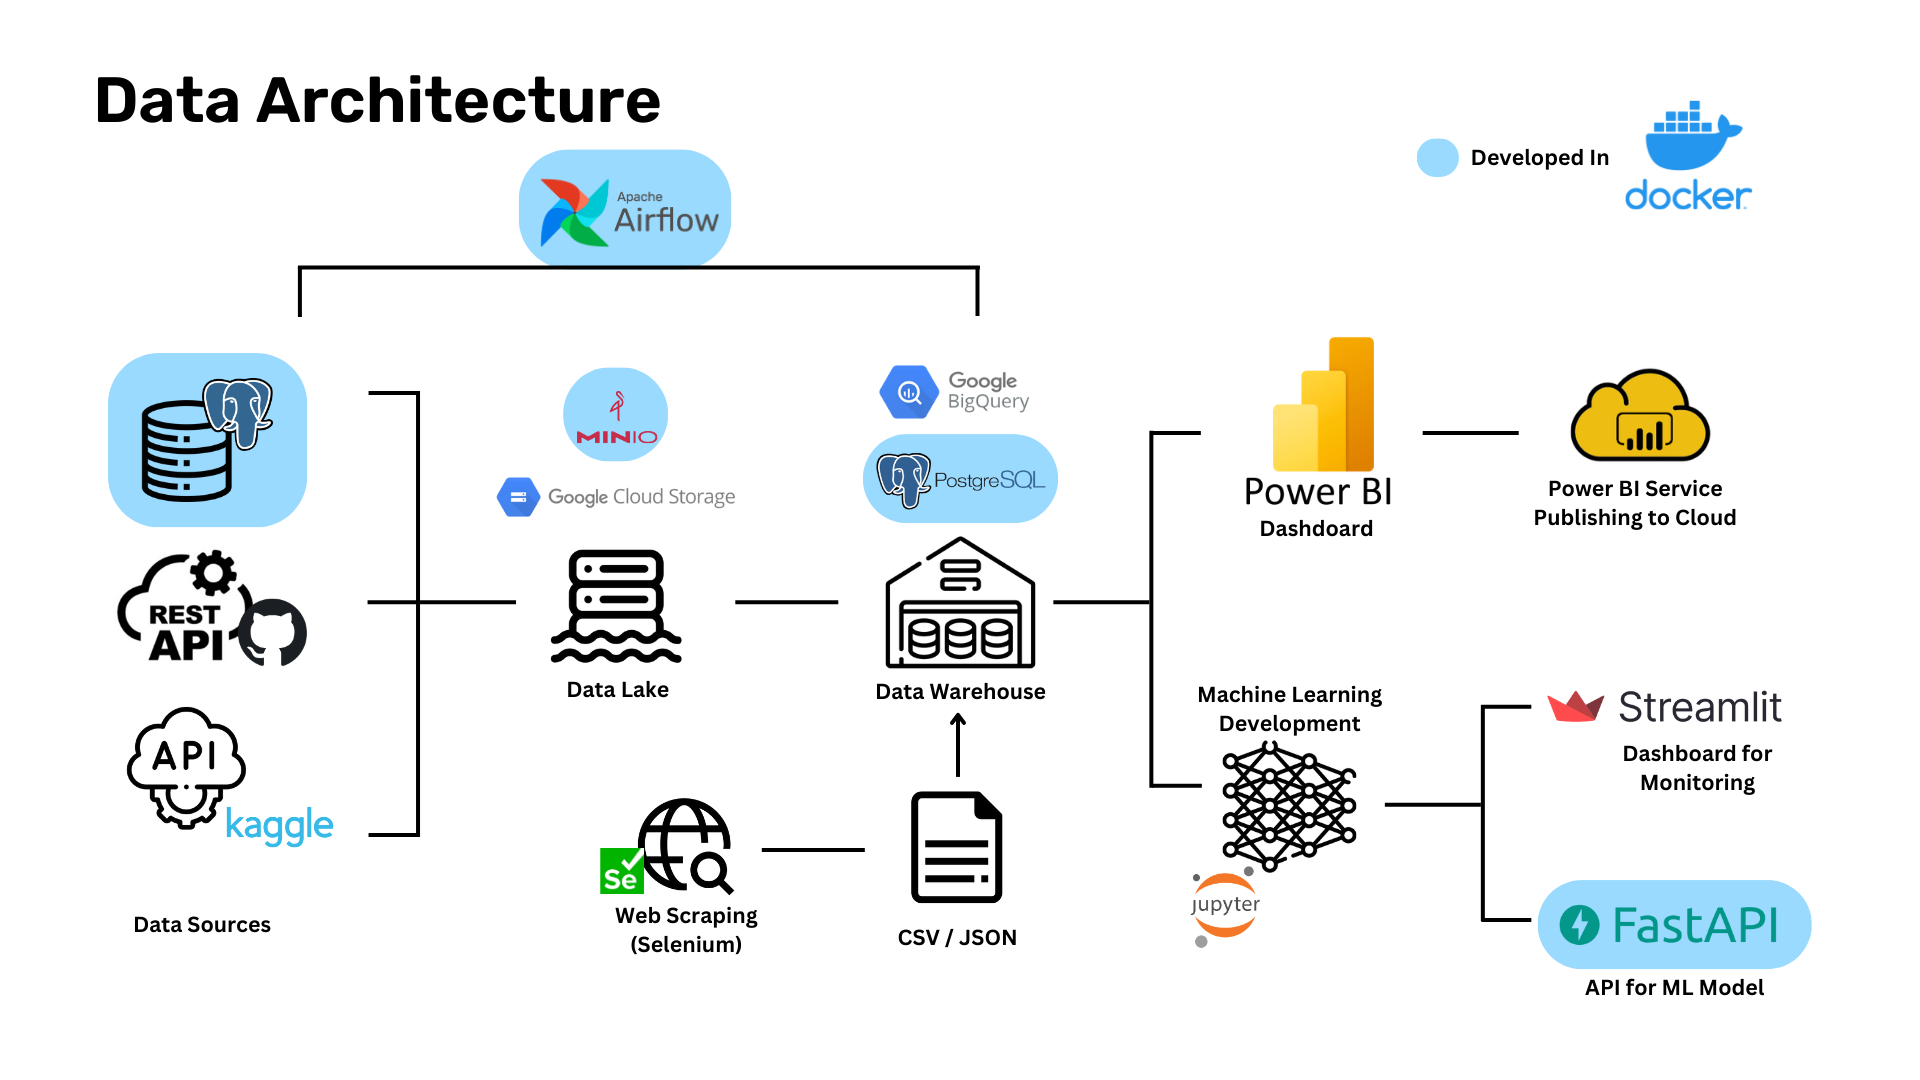
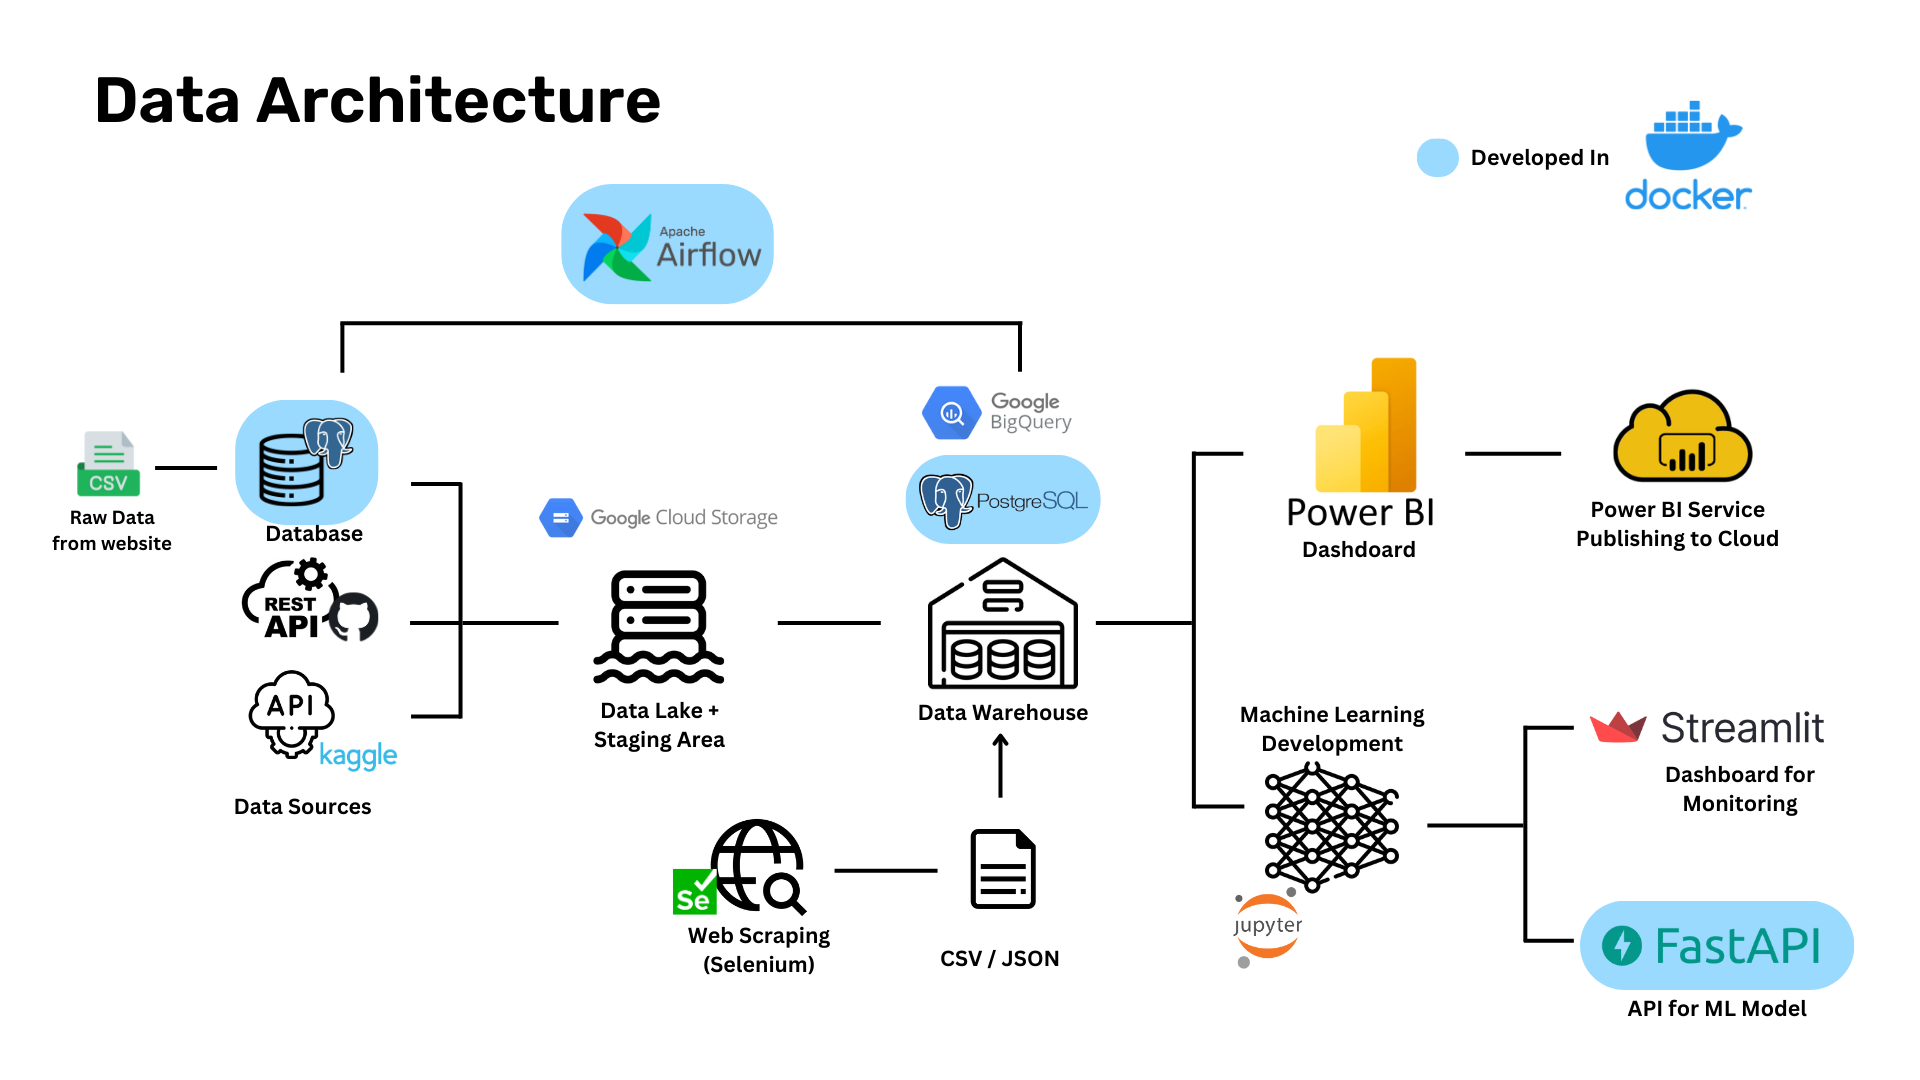
update README change overview picture

diff --git a/README.md b/README.md
@@ -1,44 +1,47 @@
 # End-to-end E-commerce Demand Forecasting
 *Patcharanat P.*
 
-End-to-end data project in e-commerce / retail domain for Demand Forecasting.
+End-to-end data project in the e-commerce and retail domain for Demand Forecasting, Customer Segmentation, and Market Basket Analysis.
 
 ***The project is in development . . .***
 
-## Context
+## **Context**
 *"Typically e-commerce datasets are proprietary and consequently hard to find among publicly available data. However, The UCI Machine Learning Repository has made this dataset containing actual transactions from 2010 and 2011. The dataset is maintained on their site, where it can be found by the title "Online Retail".*
 
-**Anyway**, it's crucial in nowadays to emphasize data existing and make the most use of it. The project is created to practice and illustrate the full process of data exploitation, including Data Engineering skills, Data Science skills, and Data Analyst skills, and also how to implement them in the real world utilizing Business and Marketing knowledge.
+**Anyway**, it's crucial in nowadays to emphasize data existing and make the most use of it. The project was created to practice and demonstrate the full process of data exploitation, including Data Engineering skills, Data Science skills, and Data Analytic skills, and also how to implement them in the real world utilizing Business and Marketing knowledge.
 
-## Processes:
-1. ETL (Extract, Transform, Load)
-2. Web Scraping
-3. Visualization
-4. Machine Learning development
-5. Model Deployment and Monitoring
+## **Processes**:
+1. [Setting up environment](#1-setting-up-environment)
+2. [ETL (Extract, Transform, Load): Writing DAGs and managing cloud services](#2-etl-process-writing-dags-and-managing-cloud-services)
+3. Web Scraping
+4. EDA and Visualization
+5. Machine Learning development
+6. Model Deployment and Monitoring
 
-## Project Overview
+## **Project Overview**
 
 ![project-overview](./src/Picture/project-overview.png)
 *Note: this project will also include developing strategy and marketing campagin based on data.*
 
-## Tools:
+## **Tools**:
 - Sources
     - Postgres Database (Data warehouse)
     - REST API (raw file url)
     - API (with token)
 - Data Lake
-    - MinIO
     - Google Cloud Storage
+    
+    *(Extend to S3 AWS and Blob Azure Storage in the future)*
 - Data Warehouse
     - Postgres Database
-    - Bigquery
+    - Bigquery (External and Native Tables)
 - Orchestrator
     - Airflow
-- Virtualization
-    - Docker compose (for local demo environment)
+- Virtualization and Infrastucture management
+    - Docker compose
+    - Terraform
 - Visualization
-    - PowerBI (Dashboard)
+    - PowerBI (Desktop and Service)
 - Machine Learning Model
     - Jupyter Notebook (Model development)
     - FastAPI (Model Deployment)
@@ -50,6 +53,7 @@ Dataset: [E-Commerce Data - Kaggle](https://www.kaggle.com/datasets/carrie1/ecom
 - Docker and Docker compose installed.
 - Get a credentials file from kaggle and activate the token for API.
 - Have Google Account being able to use google cloud services
+
 *The credentials are hidden in this project*
 
 ## 1. Setting up environment
@@ -58,26 +62,45 @@ Firstly, clone this repository to obtain all neccessary files, then use it as wo
 ```bash
 git clone https://github.com/Patcharanat/ecommerce-invoice
 ```
-We need to set up environment to demo ETLs process locally, which including:
+We need to set up environment to demo ETL process, which including:
 - Postgres database
-- Minio
 - Airflow
 
-All of the tools need to be run in different environment to simulate real use-case. So, Docker and Docker compose become important for demo.
+All of the tools need to be run in different environment to simulate the real use-case. Hence, Docker compose become important for demo.
 
-***Note:** the hardest part is setting up environment for demo*
+***Note1:** the hardest part is setting up environments.*
 
-### **Step 1: Setting up overall services (containers)**
-Run with docker compose to execute bash command in `Dockerfile` by:
+***Note2:** if you want to reproduce the project by yourself, just create a folder for your working directory. And, the process you need to do in the next parts will be remarked with **`DIY`***
+
+### **Step 1.1: Setting up overall services (containers)**
+Open your docker desktop and execute bash command (in terminal) within your working directory (in clone file) by:
 ```bash
 docker compose build
 ```
-- Copying csv file (`cleaned_data.csv`) to postgres container's local
+This command will build all containers we specified in `docker-compose.yml` file, especially in `build` and `context` parts which do follwing tasks:
 - Copying sql file (`setup.sql`) to `docker-entrypoint-initdb.d` to be executed when we initialize container.
-- Installing `requirements.txt` for airflow's container to run libraries we needed in DAGs.
-- Add a credentials file: `kaggle.json` (in this case we use Kaggle API) to make API usable.
+- Copying `cleaned_data.csv` file to the postgres container.
+- Creating schema and table with `cleaned_data.csv` by executing `setup.sql` file.
+- Installing `requirements.txt` for airflow's container to be able to use libraries we needed in DAGs.
+- Add a Kaggle credentials file: `kaggle.json` (in this case we use Kaggle API) to make API usable.
 
-### **Step 2: Intiating all containers**
+**DIY**: Setting up overall services (containers)
+<details>
+<p>
+
+First, you need to simulate postgres database by creating a container with postgres image. you will need to copy `cleaned_data.csv` file into the postgres container. Then, you need to create a database and a schema, and a table with [`setup.sql`](setup.sql) file, and also configure [`.env`](.env) file, like username, password, and database. The file that will do the task is [`postgres.Dockerfile`](postgres.Dockerfile)
+
+Then, you need to create a container with airflow image. You will need to copy `kaggle.json` file into the container (webserver, and scheduler). Then, you need to install libraries we needed in DAGs by **"pip install"**[`requirements.txt`](requirements.txt) file within the containers. The file that will do the task is [`airflow.Dockerfile`](airflow.Dockerfile)
+
+To easily run multiple docker containers, you will need docker compose. The file that will do the task is [`docker-compose.yml`](docker-compose.yml), which will build all containers we specified in `build` and `context` parts which run different dockerfile for different containers.
+
+In airflow official site, you will find template to run airflow as `docker-compose.yml` you can use it as reference and change it to fit your needs, like add postgres section, and remove unnecessary part that can causes running out of memory making you unable to run docker containers successfully.
+
+If you're new to container, you will be confused a little with using path. please be careful where you mount the files to, unless it will bug.
+</p>
+</details>
+
+### **Step 1.2: Intiating all containers**
 Initialize docker container(s) and run process in background (Detach mode)
 ```bash
 docker compose up -d
@@ -90,7 +113,11 @@ To check status of running containers:
 docker ps
 ```
 
-### **Step 3: checking if all Dockerfiles correctly executed**
+### **Step 1.3: checking if all Dockerfiles correctly executed**
+What to be checked are
+- Is the data table in postgres database created correctly?
+- Is the `kaggle.json` credentials file imported?
+
 Get into command-line or bash of container we specified.
 ```bash
 docker exec -it <container-name-or-id> bash
@@ -103,10 +130,13 @@ ls
 ls data/
 ls docker-entrypoint-initdb.d/
 ```
+
+you should see the data csv file and `setup.sql` file in the directory.
+
 What you should check more is that credentials file: `kaggle.json` correctly imported in airflow's scheduler and webservice containers.
 
-### **Step 4: Checking data in database**
-Access to database to check if csv file copied into database.
+### **Step 1.4: Checking data in database**
+Access to postgres container, and then access database to check if csv file copied into table.
 ```bash
 psql -U postgres -d mydatabase
 ```
@@ -114,8 +144,8 @@ Then we will be mounted into postgres' bash
 
 Then we will check table, and schema we executed by `setup.sql` file
 ```bash
-\dt or \d
-\dn or \z
+\dt or \d -- to see tables list
+\dn or \z -- to see schemas list
 ```
 if we see table and schema are corrected and showed, then importing csv to the Postgres database part is done.
 
@@ -132,35 +162,35 @@ ALTER DATABASE <mydatabase> SET search_path TO <myschema>;
 ```
 to set permanently at database level.
 
+In postgres bash, we will be able to see only the table that match the schema we created. Hence, we have to change the schema to see the table in the database.
+
 Then exit from all bash
 ```bash
 \q
 exit
 ```
-### **Step 5: Exiting**
+### **Step 1.5: Exiting**
 Don't forget to remove all image and containers when you're done.
 ```bash
 docker compose down -v
 ```
 
-### **Step 6: Setting up Data Lake (MinIO)**
-After running `docker compose up -d`, check if MinIO is accessible via web browser with URL "http://localhost:9001" or "http://localhost:9000" using `username` and `password` we specified in `docker-compose.yml`.
+and remove all images via `docker desktop`, we will initiate `docker compose build` and `docker compose up -d` again, when we want to test ETL process (test our airflow DAGs).
 
-**(Update): MinIO is not further used**, instead use Google Cloud Storage as Data Lake. (extend to S3 and Blob Storage in the future)
 
-### **Step 7: Setting up Airflow Web UI**
+### **Step 1.6: Setting up Airflow Web UI**
 
 To set up airflow, we need to define more 4 services that refer to [official's .yml file template](https://airflow.apache.org/docs/apache-airflow/2.6.1/docker-compose.yaml) including `airflow-postgres` to be backendDB, `airflow-scheduler` to make scheduler, `airflow-webserver` to make airflow accessible via web UI, and `airflow-init` to initiate airflow session.
 
-Trying to understand how every components in services work make much more easier to comprehend and debug issues that occur, such as depends-on, environment, healthcheck, and storing object in `&variable`.
+Understanding how every components in services work make much more easier to comprehend and debug issues that occur, such as `depends-on`, `environment`, `healthcheck`, `context`, `build`, and storing object in `&variable`.
 
 ***Note:*** In `docker-compose.yml` file, Identation is very important.
 
-**For this project**, we create 2 postgres containers, so we need to check carefully if airflow connect to its own backendDB or the right database.
+**For this project**, we create 2 postgres containers, so we need to check carefully if airflow connected to its own backendDB or the right database.
 
-<details><summary>Issue debugged</summary>
+<details><summary>Issue debugged: for being unable to connect to airflow backendDB</summary>
 <p>
-use this template from official's document in `.env` file:
+Use this template from official's document in `.env` file:
 
 ```python
 postgresql+psycopg2://<user>:<password>@<host>/<db>
@@ -177,14 +207,94 @@ AIRFLOW__DATABASE__SQL_ALCHEMY_CONN=postgresql+psycopg2://airflow:airflow@airflo
 </p>
 </details>
 
-***Note:*** In .env file, airflow core need *FERNET* key which can be obtained from fernet.py (random generated)
+***Note:*** In `.env` file, airflow core need *FERNET* key which can be obtained from fernet.py (random generated)
 
-## 2. Writing DAGs
+## 2. ETL process: Writing DAGs and managing cloud services
 ---
-In my case (this project), I used a dataset from kaggle which loaded to postgres database, uploaded to this repo github and I wrote DAGs to use Kaggle API to obtain the dataset directly. If you want to change data, you have to write your own DAGs which I highly recommend for steeper learning curve.
+In my case (this project), I used a dataset from kaggle which was:
+- loaded to postgres database
+- uploaded to this repo github as csv format
+- and I wrote DAGs to use Kaggle API to obtain the dataset directly from the Kaggle website.
 
-### **Step 1: Setting connections between Data Lake, and source**
-... In development
+If you want to change data, you have to write your own DAGs what match your specific use-case.
 
-*development note*
-Currently, I'm working on debugging DAGs of 3 tasks which are: extracting data from raw url, kaggle api, and postgres database to load to data lake which is GCS (Google Cloud Storage). I'm stuck at incompatible package of airflow image and pandas, pyarrow library to transform raw url github to parquet file. So, my next approach is try to transform it to parquet file without importing pandas or pyarrow. Google credentials part seems to be working. need to be test after debug this issue.
+### **Step 2.1: Setting Data Lake, and Data Warehouse**
+As we will use GCP (Google Cloud Platform) as our Data Lake and Data Warehouse, we need to make our airflow script, which run in docker containers in local, able to connect to GCP using **google credentials** as known as `service account` or `IAM`. I recommend to manually get the credential from GCP console for the safety aspect.
+
+Do the following:
+
+1. Go to your GCP console **within your project** (I assume you have free credit), and go to navigation menu (3-bar icon at top left), then go to `IAM & Admin` > `Service Accounts` > `Create Service Account` > Create your Service Account 
+2. In Service accounts section, click 3 dots at your new created service account > `Manage keys` > `Add key` > `Create new key` > `JSON` > `Create` > `Download JSON` > `Close`, keep your credentials (this json file) in safe place. (if you want to add your project to github, make sure you are working in private repo, or add it to `.gitignore` file)
+
+Until now, you've finished getting service account credentials.
+
+The next step is creating your Google cloud storage bucket. Go to `Cloud Storage` > `Create` > `Name your bucket` (which *globally unique*)
+
+Then, choose the options that match you specific needs, the recommend are:
+- `Location type`: Region
+- `Storage Class`: Standard
+- Activate `Enforce public access prevention`
+- `Access control`: Uniform
+- `Protection tools`: None
+
+Click `Create`, and now you have your own data lake bucket.
+
+*Data Warehouse part is in development . . .*
+
+***Note:** Actually, we can achieve creating the bucket by **"Terraform"**, which is an alternative way to create cloud resources. you can see the code in `terraform` folder, consisting of [main.tf](terraform/main.tf) and [variables.tf](terraform/variables.tf). Terraform make it easier to create and delete or managing the resources in this demonstration with a few bash commands*
+
+### **Step 2.2: Setting up DAGs**
+In this project, I wrote [`ecomm_invoice_etl_dag.py`](src/dags/ecomm_invoice_etl_dag.py) to create 1 DAG of **8 tasks**, which are:
+1. Reading data from raw url from github that I uploaded myself. Then, upload it to GCP bucket as uncleaned data.
+2. Fetching data from the postgres database that we simulate in docker containers as a data warehouse source. Then, upload it to GCP bucket as cleaned data.
+3. Downloading from the Kaggle website using Kaggle API. Then, upload it to GCP bucket as uncleaned data. 
+4. Data Transformation: reformat to parquet file, and cleaning data to be ready for data analyst and data scientist to use.
+5. Loading to data warehouse (Bigquery) as cleaned data with a Native table way.
+6. Loading to data warehouse (Bigquery) as cleaned data with an External table way.
+7. Loading to another Postgres database as cleaned data.
+8. Clearing data in staging area (GCP bucket).
+
+But before triggering the DAG, we need to set up the connection between Airflow and our containerized Postgres database in Airflow web UI:
+
+go to `Admin` > `Connections` > `Create` 
+- `Connection Type: `**Postgres**
+- `Host: `{*service name of postgres in docker-compose.yml*}
+- `Schema: `{*schema name we used in `setup.sql`*}
+- `Login: `{*username of postgres in docker-compose.yml*}
+- `Password: ` {*username of postgres in docker-compose.yml*}
+- `Port: `{{*username of postgres in docker-compose.yml*}}
+
+And then, `Save`
+
+**Note:** we used **`database name`** that we specified in `docker-compose.yml` in DAG script where we need to connect to the database, PostgresHook with `conn_id` as Postgres Host name, and `schema` as **`database name`**.
+
+After this step, we're gonna test our DAG by initating docker compose again, and go to `localhost:8080` in web browser, trigger DAG and see if our DAG worked successfully.
+
+<details><summary>The issues I encountered during developed DAG</summary>
+<p>
+
+- It was kinda lost when trying to write my own DAGs with my own concepts, like how to get, read, fetch, write the file, or how to connect and upload to the cloud. Reading directly from official documentation was a big help, such as Google Cloud Documentation, and Kaggle API Documentation.
+- Reading Logs in airflow web UI was very helpful to debug the issues.
+- When we have google credentials as a json file, it make us less concerned about how to authenticate, like gcloud, gsutil etc (or even connection in Airflow). We just need to mount the credentials into the airflow container, put the path of the json file in the code and use the right API or library provided by provider which mostly can be found as templates in official documentation.
+- The libraries are able to be used or not, depends on requirements.txt file. If you want to use a library, you have to install it in requirements.txt file, and rebuild the image.
+    - I encountered that `pandas` version and `pyarrow` are not compatible with python version of airflow image, so I decide not to use pandas and pyarrow to transform data to parquet file, but use `csv` instead.
+ 
+</p>
+</details>
+
+*The dependencies management will be changed to **poetry** in further development. Since, it's not worked until now and not the focus of this project*
+
+*The project is in development . . .*
+
+---
+*Development Note*
+
+- At the moment, I am at writing DAGs to upload to Data Warehouse (Biquery and Postgres), and learning what external and native table are in Bigquery (and also staging area).
+
+- I am also doing an EDA for the dataset that was loaded into data lake, and try to investigate more about characteristic of the dataset to see if I can clean the data better.
+
+- When I'm done with loading to data warehouse and cleaning the data. I will skip to model development and then comeback to create the dashboard with powerBI later.
+
+- During model development, I will also learn **dbt** and see if I can include it in this project. This may take a while to develop project to the next part.
+
+***Star the project would be a big help for me. Thank you for your support and reading. happy learning.***
